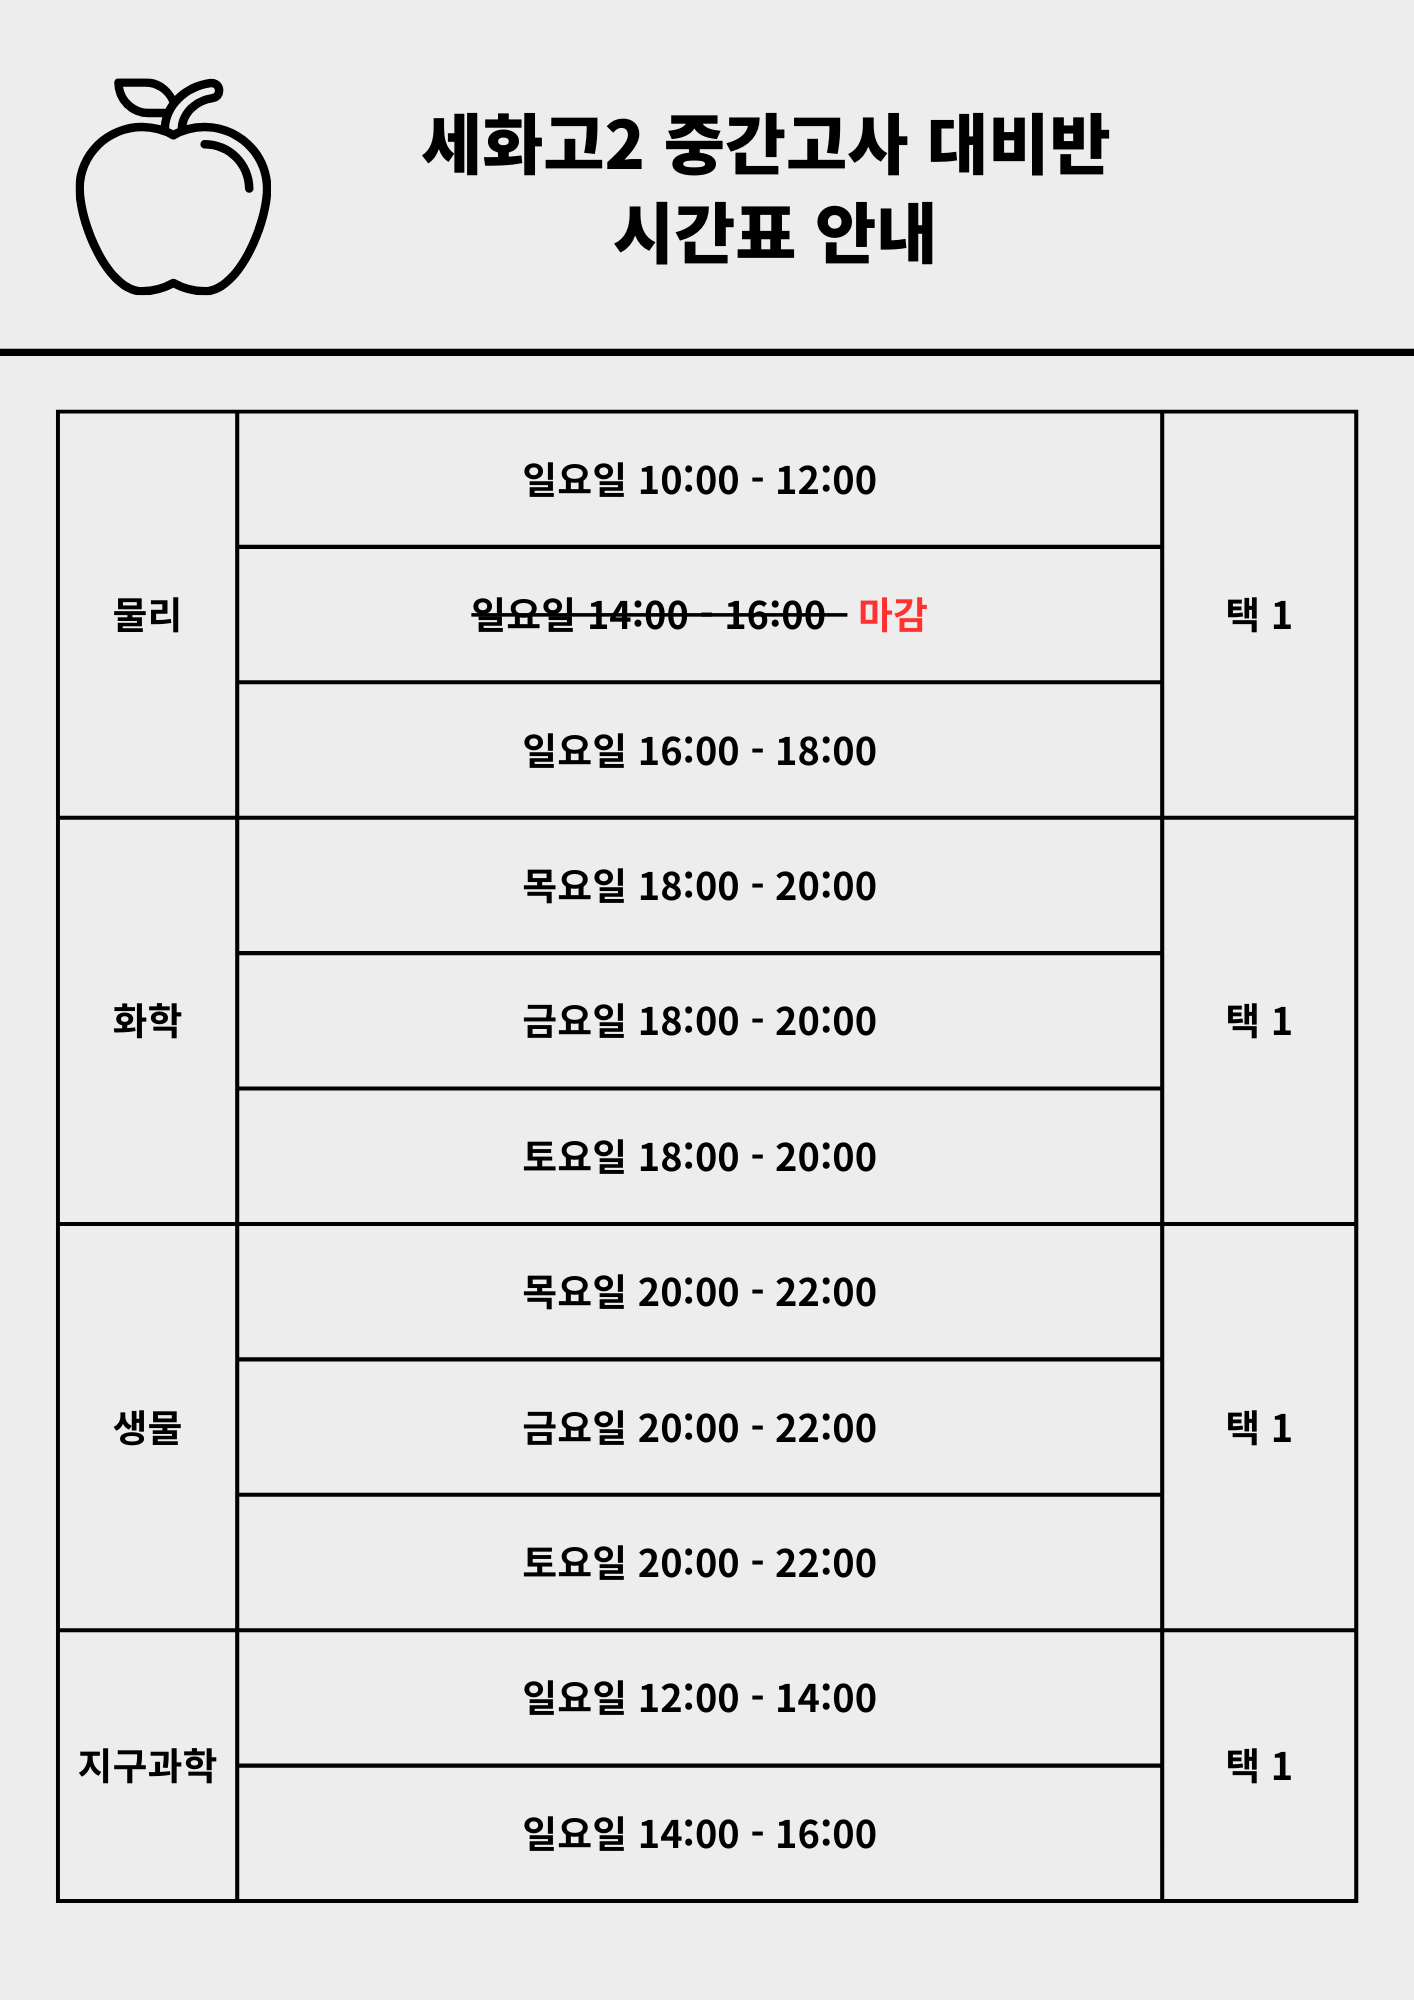
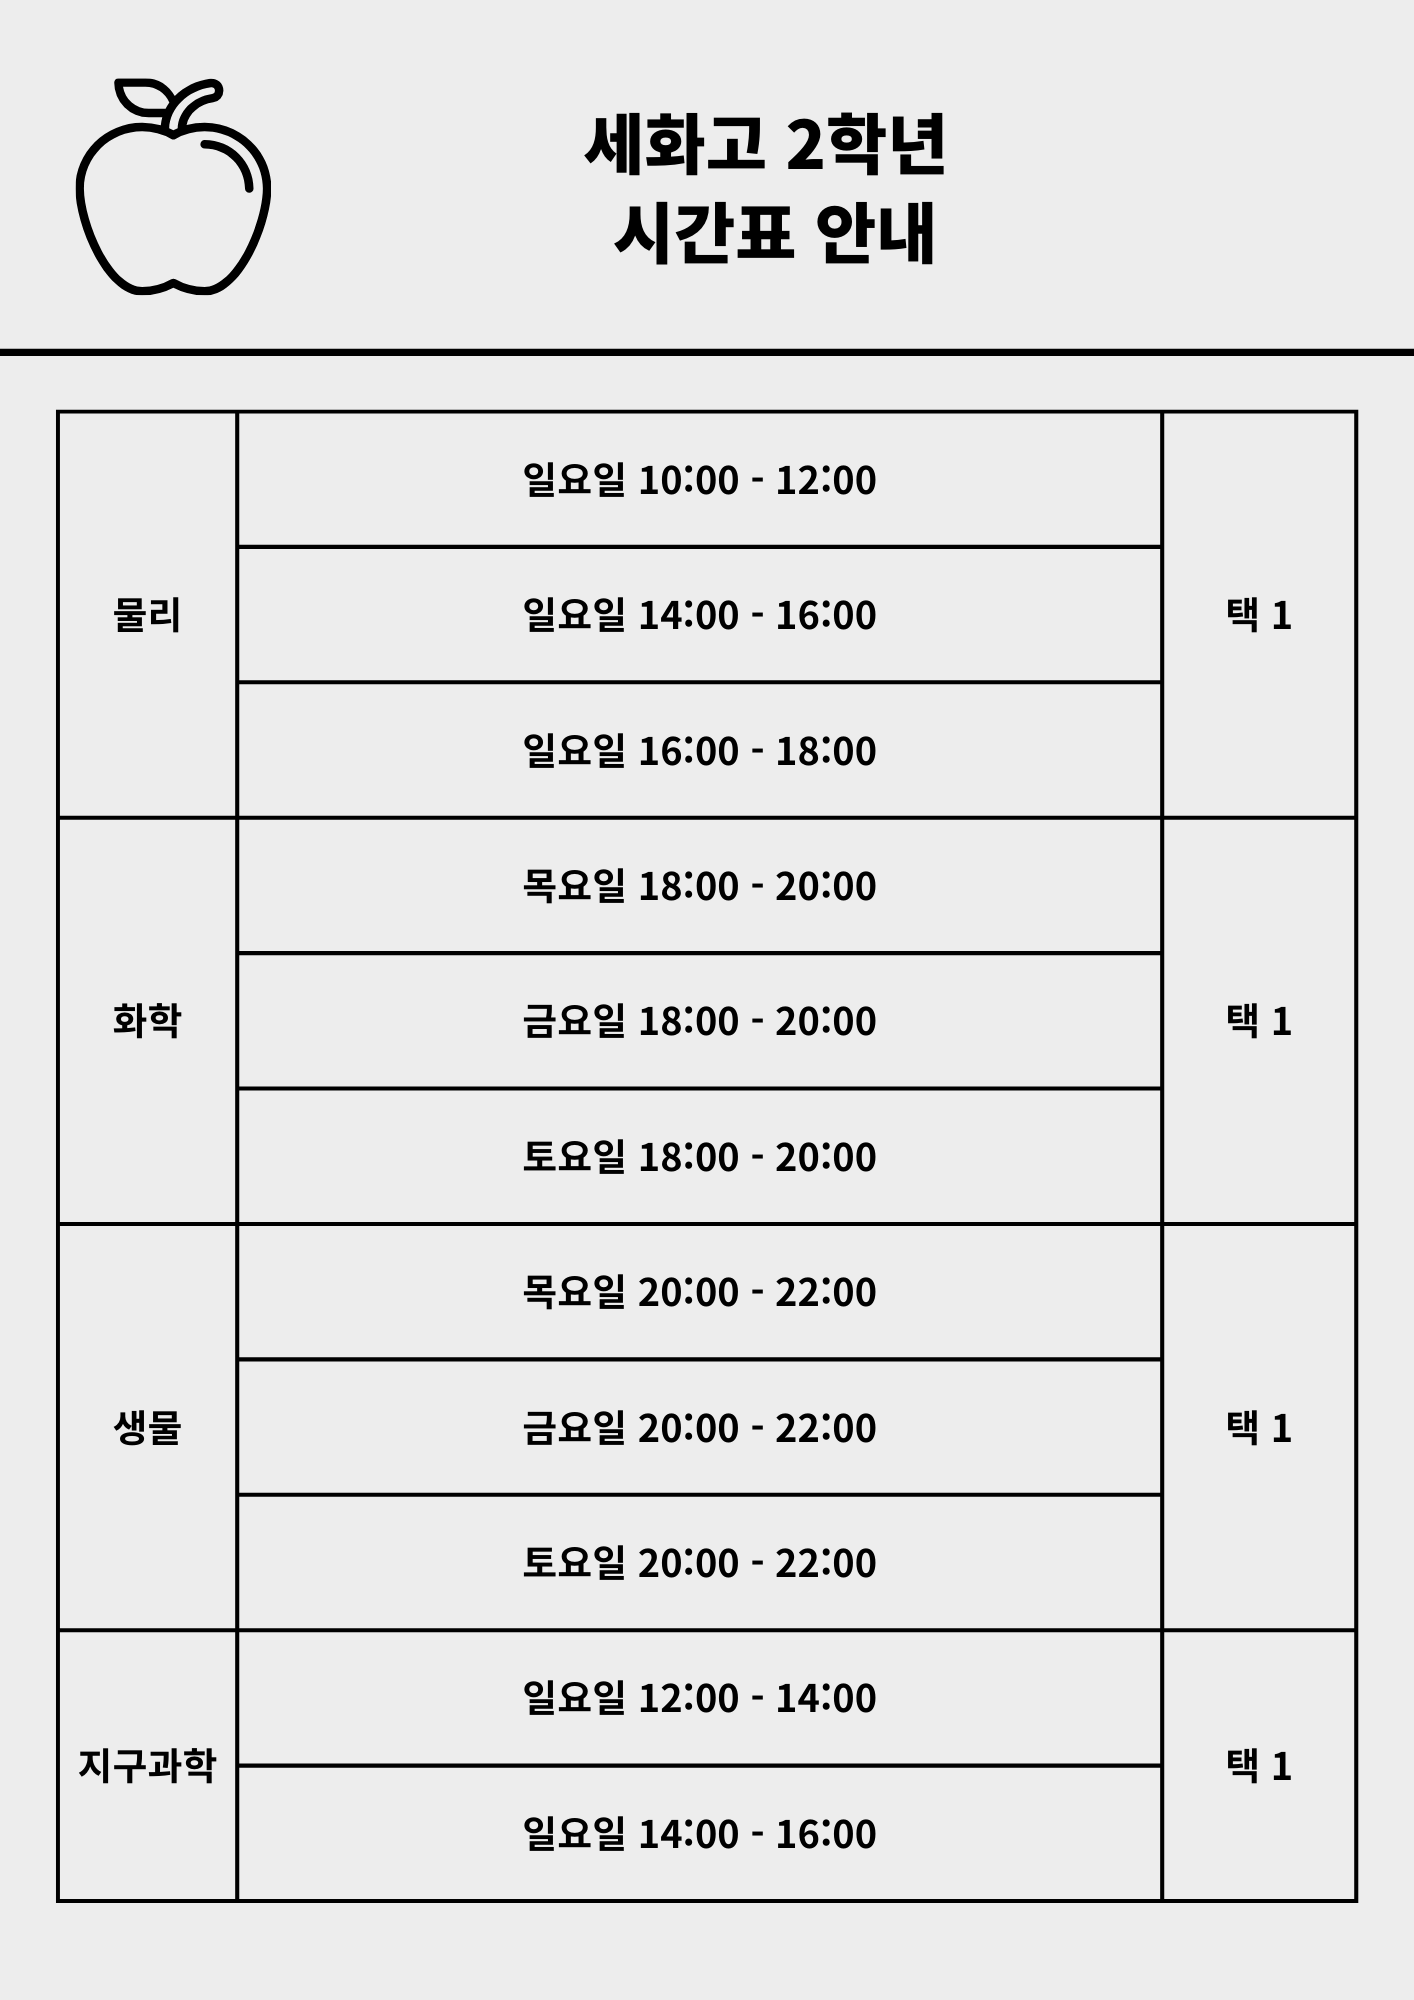
new timatable

Changed region(s): [[0.2801, 0.031, 0.7779, 0.093], [0.3423, 0.279, 0.6535, 0.341]]

diff --git a/appleWeb/templates/main/main_home.html b/appleWeb/templates/main/main_home.html
@@ -128,6 +128,7 @@
             <h2 class="t-n2 fw-bolder big-text">시간표</h2>
         </div>
         <div class="timetable-container">
+            <div class="timetable-box" data-bs-toggle="modal" data-bs-target="#timetableModal" data-timetable="예비고1">예비고1</div>
             <div class="timetable-box" data-bs-toggle="modal" data-bs-target="#timetableModal" data-timetable="1학년">1학년</div>
             <div class="timetable-box" data-bs-toggle="modal" data-bs-target="#timetableModal" data-timetable="세화고2">세화고 2학년</div>
             <div class="timetable-box" data-bs-toggle="modal" data-bs-target="#timetableModal" data-timetable="세화여고2">세화여고 2학년</div>

diff --git a/appleWeb/static/css/main/main_home.css b/appleWeb/static/css/main/main_home.css
@@ -176,8 +176,8 @@
       align-items: center;
       font-size: 1.5rem;
 
-      height: 300px;
-      width: 25%;
+      height: 250px;
+      width: 20%;
       max-width: 100%;
 
       border-radius: 50px;

diff --git a/appleWeb/static/css/base.css b/appleWeb/static/css/base.css
@@ -5468,7 +5468,7 @@ textarea.form-control-lg {
 @media (min-width: 992px) {
   .modal-lg,
   .modal-xl {
-    --bs-modal-width: 800px;
+    --bs-modal-width: 600px;
   }
 }
 @media (min-width: 1200px) {
